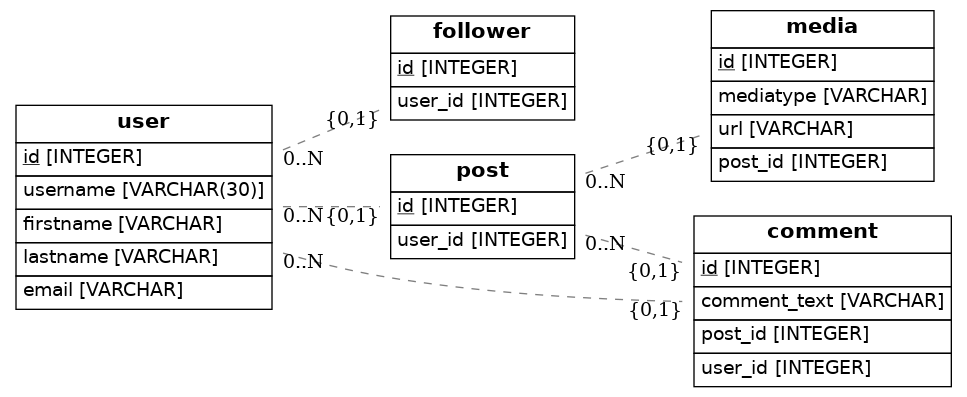
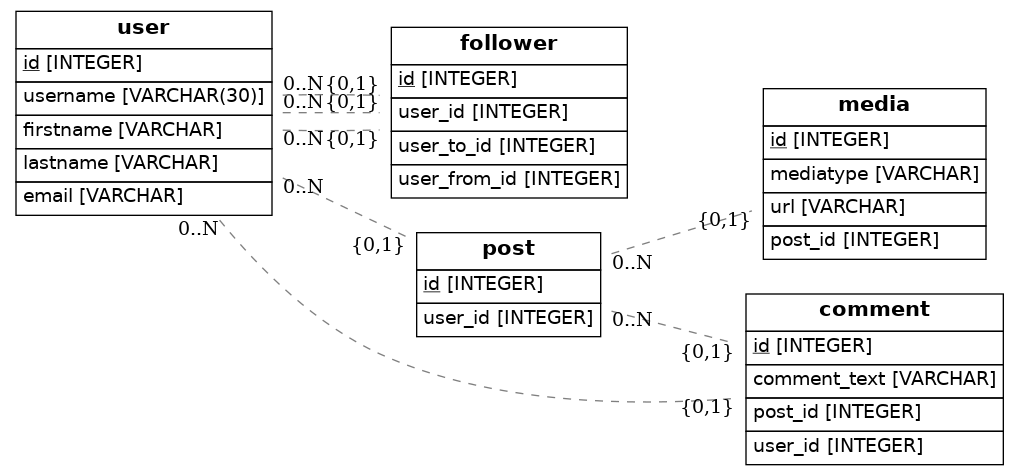
complete

diff --git a/src/models.py b/src/models.py
@@ -21,6 +21,8 @@ class Follower(Base):
     id = Column(Integer, primary_key=True)
     user = relationship(User)
     user_id = Column(Integer, ForeignKey('user.id'), nullable=True)
+    user_to_id = Column(Integer, ForeignKey('user.to_id'), nullable= True)
+    user_from_id = Column(Integer, ForeignKey('user.from_id'), nullable=True)
 
 class Post(Base):
     __tablename__ = 'post'
